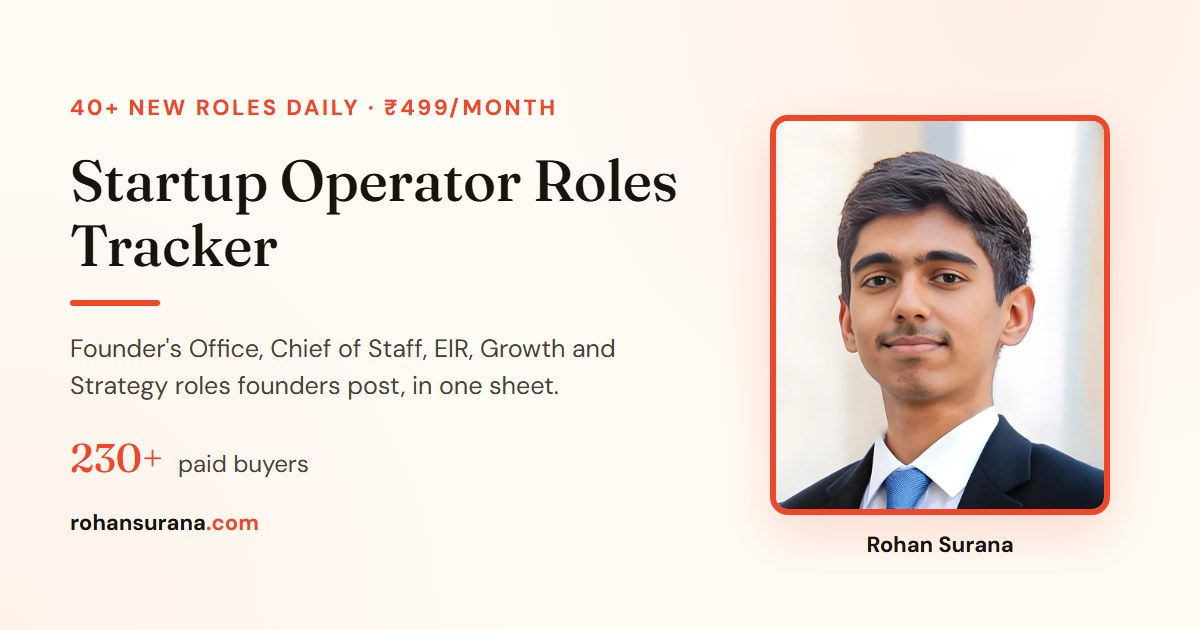
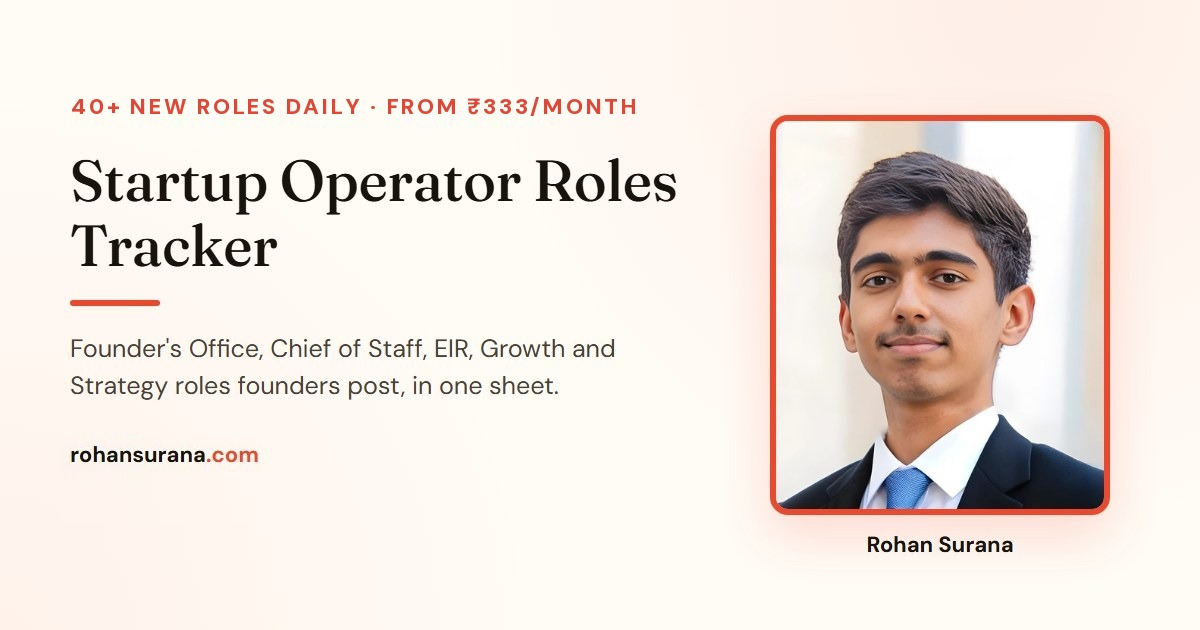
Drop "third Founder's Office", Collegeramp end date to May 2026, tracker card from ₹333/month
- Remove "third"/"3 Founder's Office roles" wording on home and service pages
- Collegeramp tenure: Feb 2026 – May 2026
- Tracker share card: FROM ₹333/MONTH, no buyer count
- Homepage tracker bullet: from ₹333/month

Changed region(s): [[0.0617, 0.1508, 0.5242, 0.181], [0.0617, 0.6937, 0.2775, 0.754], [0.0617, 0.8143, 0.2158, 0.8444]]

diff --git a/index.html b/index.html
@@ -173,7 +173,7 @@ Wherever you're stuck, I'll take it from there.
 <div>
 <p class="tl-heading">Built the tool I wished I had during my own search.</p>
 <div class="tl-desc"><ul>
-<li>Free in May, paid from Aug: 260+ buyers at ₹499/month</li>
+<li>Free in May, paid from Aug: 260+ buyers, from ₹333/month</li>
 <li>40+ Founder's Office, Chief of Staff, Entrepreneur-in-Residence, Growth and Strategy roles added daily</li>
 <li>Grew LinkedIn to 29K followers as the main sales channel</li>
 <li>Fully automated delivery via Razorpay, Make &amp; Claude Code</li>
@@ -183,7 +183,7 @@ Wherever you're stuck, I'll take it from there.
 <!-- 2. Collegeramp LLC (VTSP.com) -->
 <div class="tl-item reveal">
 <div>
-<p class="tl-date">Feb 2026 – Jun 2026</p>
+<p class="tl-date">Feb 2026 – May 2026</p>
 <p class="tl-org">Collegeramp LLC (VTSP.com)</p>
 <p class="tl-role">Founder's Office</p>
 </div>
@@ -209,7 +209,7 @@ Wherever you're stuck, I'll take it from there.
 <div class="tl-desc"><ul>
 <li>Built 28 proof-of-work projects for startups during their hiring processes, all public on <a href="https://fueler.io/rohansurana" target="_blank" rel="noopener" style="color:var(--accent);font-weight:700;text-decoration:none">Fueler ↗</a></li>
 <li>Had 110+ calls with founders and hiring teams at 80+ startups</li>
-<li>Led to my third Founder's Office role, at Collegeramp LLC (VTSP.com)</li>
+<li>Led to my Founder's Office role at Collegeramp LLC (VTSP.com)</li>
 </ul>
 </div></div>
 </div>

diff --git a/services/build-growth-anything-else.html b/services/build-growth-anything-else.html
@@ -108,7 +108,7 @@ document.addEventListener('click', function(e){
 <li>I built and run the Startup Operator Roles Tracker on my own: 260+ paid buyers, 40+ new roles added daily</li>
 <li>It runs on Claude Code AI agents, Make and Razorpay, so access goes out about 2 minutes after payment</li>
 <li>I grew my LinkedIn to 29K followers, and it's the tracker's main sales channel</li>
-<li>I've held 3 Founder's Office roles, most recently at Collegeramp LLC (VTSP.com), after starting in finance at Wells Fargo</li>
+<li>I've worked in the Founder's Office, most recently at Collegeramp LLC (VTSP.com), after starting in finance at Wells Fargo</li>
 </ul>
 </div>
 

diff --git a/services/founders-office-resume-review.html b/services/founders-office-resume-review.html
@@ -106,7 +106,7 @@ document.addEventListener('click', function(e){
 <li>I most recently worked in the Founder's Office at Collegeramp LLC (VTSP.com), a US EdTech startup</li>
 <li>Before this, I held a similar seat in the Founder's Office at Rishihood University</li>
 <li>I've also built and run the Startup Operator Roles Tracker: 40+ new roles added daily</li>
-<li>I applied to hundreds of these roles myself before landing my third Founder's Office role</li>
+<li>I applied to hundreds of these roles myself before landing my Founder's Office role</li>
 <li>That gives me a direct view of what these roles actually ask for</li>
 </ul>
 </div>

diff --git a/services/why-you-are-not-getting-interview-calls.html b/services/why-you-are-not-getting-interview-calls.html
@@ -114,7 +114,7 @@ document.addEventListener('click', function(e){
 <li>I most recently worked in the Founder's Office at Collegeramp LLC (VTSP.com), a US EdTech startup</li>
 <li>Before this, I held a similar seat in the Founder's Office at Rishihood University</li>
 <li>I've also built and run the Startup Operator Roles Tracker: 40+ new roles added daily</li>
-<li>I applied to hundreds of these roles myself before landing my third Founder's Office role</li>
+<li>I applied to hundreds of these roles myself before landing my Founder's Office role</li>
 <li>That gives me a direct view of what these roles actually ask for</li>
 </ul>
 </div>
